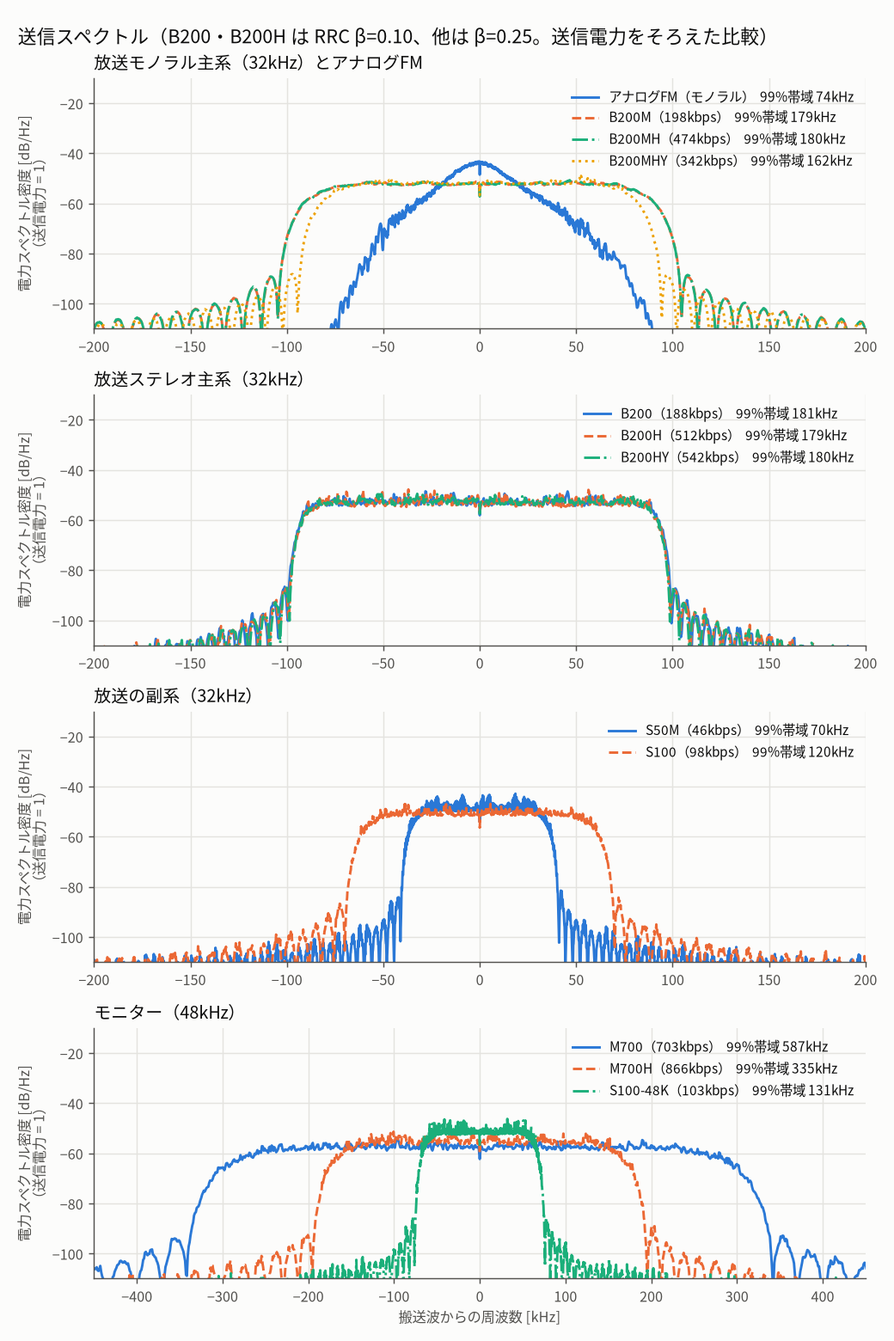
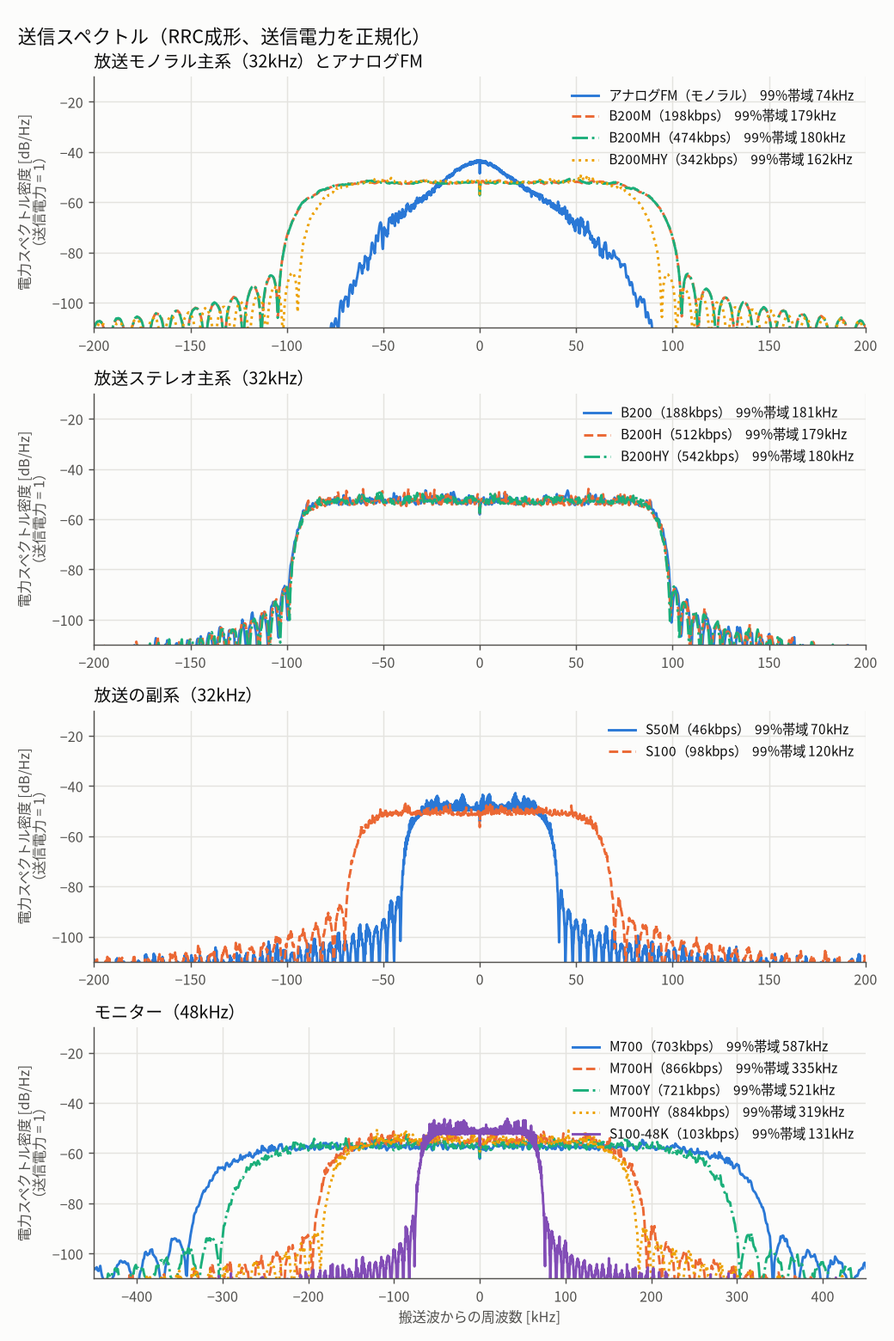
fix.

diff --git a/tools/profile_matrix.py b/tools/profile_matrix.py
@@ -19,13 +19,13 @@ def vector(values):
 
 def render():
     lines = ['# 現行プロファイル設定マトリクス', '',
-             '`gracefm/profiles.py` の `PROFILE_MATRIX` から生成。更新は `python tools/profile_matrix.py`、一致確認は `--check`。', '',
+             '`gracefm/profiles.py` の `PROFILE_MATRIX` から生成。更新は `python tools/profile_matrix.py`、一致確認は `--check`。アルゴリズムと測定条件は[技術論文](SPEC.md)を参照。', '',
              '全登録プロファイルに区間アッテネータを標準装備する。名前の数字は系列名であり、現在の実ビットレートは下表を参照。', '',
              '共通設定：64サンプル、Haar 6段、指数4bit/送信帯域、基本CRC-16とH1/H2用の高域CRC-16（該当帯域を送る場合のみ）、畳み込み符号 K=7・r=1/2。ヘッダは非暗号化24bit（カウンタ16bit）、暗号化32bit（カウンタ24bit）。ID 0・14・15は予約。', '',
              '## ID・方式・伝送予算', '',
              '非暗号化の値。シンボル数にはプリアンブル16シンボルとY専用シンボルを含む。理論支持幅は `(1+β)Rs` で、99%占有帯域の実測値ではない。音声量には指数とアッテネータを含む。', '',
              '| ID | 名前 | fs kHz | M/S | 変調 / α | Y開始k | FEC上位bit/係数 | 音声 kbps | CRC本数 | 保護部CRC込 bit | FEC後 bit | 非保護デジタル bit | シンボル/フレーム | Rs ksym/s | RRC β / span | 理論支持幅 kHz |',
-             '|---|---|---:|---|---|---|---:|---:|---:|---:|---:|---:|---:|---|---:|']
+             '|---|---|---:|---|---|---|---:|---:|---:|---:|---:|---:|---:|---:|---|---:|']
     budgets=[]
     for p in PROFILES.values():
         tx=Transmitter(p); l=tx.layout; ns=tx.nsym+16; rs=tx.symbol_rate()

diff --git a/tools/spectrum.py b/tools/spectrum.py
@@ -40,8 +40,8 @@ for f in font_manager.findSystemFonts():
     if "NotoSansCJK" in f:
         font_manager.fontManager.addfont(f)
 plt.rcParams["font.family"] = ["Noto Sans CJK JP", "DejaVu Sans"]
-COL = ["#2a78d6", "#eb6834", "#1baf7a", "#eda100"]       # 分類色 (固定順)
-LS = ["-", "--", "-.", ":"]
+COL = ["#2a78d6", "#eb6834", "#1baf7a", "#eda100", "#824db6", "#b05e70"]
+LS = ["-", "--", "-.", ":", "-", "--"]
 INK, INK2, GRID, SURF = "#0b0b0b", "#52514e", "#e4e3df", "#fcfcfb"
 SPS = 8
 
@@ -84,7 +84,7 @@ def main():
         ("放送モノラル主系（32kHz）とアナログFM", ["FM", "B200M", "B200MH", "B200MHY"]),
         ("放送ステレオ主系（32kHz）", ["B200", "B200H", "B200HY"]),
         ("放送の副系（32kHz）", ["S50M", "S100"]),
-        ("モニター（48kHz）", ["M700", "M700H", "S100-48K"]),
+        ("モニター（48kHz）", ["M700", "M700H", "M700Y", "M700HY", "S100-48K"]),
     ]
     res = {}
     fig, axs = plt.subplots(len(groups), 1, figsize=(8, 12), facecolor=SURF)
@@ -117,7 +117,7 @@ def main():
         ax.set_ylabel("電力スペクトル密度 [dB/Hz]\n（送信電力 = 1）", fontsize=9, color=INK2)
         ax.legend(fontsize=8.5, frameon=False, loc="upper right", labelcolor=INK)
     axs[-1].set_xlabel("搬送波からの周波数 [kHz]", fontsize=9, color=INK2)
-    fig.suptitle("送信スペクトル（B200・B200H は RRC β=0.10、他は β=0.25。送信電力をそろえた比較）", fontsize=12, color=INK, x=0.02,
+    fig.suptitle("送信スペクトル（RRC成形、送信電力を正規化）", fontsize=12, color=INK, x=0.02,
                  ha="left")
     fig.tight_layout()
     fig.savefig(os.path.join(ROOT, "docs", "figures", "rf_spectrum.png"), dpi=130, facecolor=SURF)

diff --git a/docs/SPEC.md b/docs/SPEC.md
@@ -1,53 +1,114 @@
-# GraceFM 現行仕様
+# GraceFM：Haar帯域分割を用いた低遅延デジタル音声伝送
 
-## プロファイルの定義
+## 要旨
 
-唯一の設定元は `gracefm/profiles.py` の `PROFILE_MATRIX`。全13行が同じ項目を持ち、ビット割当を派生関数で暗黙に増やさない。[全設定・伝送予算マトリクス](PROFILES.md)は、この定義から自動生成する。
+GraceFMは、64サンプルの音声を正規直交Haar変換し、帯域別に量子化して無線シンボルへ写像する方式である。重要な指数、区間アッテネータおよび仮数上位bitを畳み込み符号で保護し、Haarの高域H2/H1に別のCRCを割り当てる。QPSK、強弱のある階層16QAM、高域M係数を1係数1複素シンボルで送るY方式を定義する。受信側は軟判定復号、量子化区間に制約されたポストフィルタ、任意の2周波数系統の帯域別融合、LPCによる連続欠落の補間を行う。本書は[参照実装](../gracefm/)のアルゴリズムと[計算した設定表](PROFILES.md)を記述する。数値はオフラインシミュレーションであり、実機のRF性能、同期取得、法規適合性を示すものではない。
 
-全プロファイルは64サンプル、Haar 6詳細帯域＋低域近似1群。32kHzは1フレーム2ms、48kHzは約1.333ms。M=(L+R)/2、S=(L−R)/2。モノラルはSを送らない。
+## 1. 信号モデルと帯域
 
-副系は主系と別周波数で送る独立した音声ストリームで、M/SのS成分や拡張層とは異なる。既定の組合せは32kHzモノラル主系にS50M、32kHzステレオ主系にS100、48kHz主系にS100-48K。副系の使用は任意で、主系だけでも復号できる。
+入力はサンプリング周波数 $f_s=32$ または $48$ kHzの左右PCMとし、$M=(L+R)/2$、$S=(L-R)/2$ に変換する。モノラルのプロファイルはMのみを送る。1フレームは64サンプルで、フレーム周期は $T_f=64/f_s$、すなわち32 kHzで2 ms、48 kHzで約1.333 msである。音声ブロック内に先読みはない。[codec.py](../gracefm/codec.py)が変換と量子化を実装する。
 
-## 標準の区間アッテネータ
+Haar分解は偶数・奇数の組ごとに $a'=(x_{2i}+x_{2i+1})/\sqrt2$、$d=(x_{2i}-x_{2i+1})/\sqrt2$ を6段繰り返す。$k=0$ は最終近似、$k=1,\ldots,6$ は低域から高域への詳細帯域で、各ブロックの係数数は順に $1,1,2,4,8,16,32$ である。32 kHzではH2（$k=5$）が概ね4–8 kHz、H1（$k=6$）が8–16 kHzに対応する。48 kHzではそれぞれ6–12 kHz、12–24 kHzに対応する。Haarの帯域は理想的な矩形周波数帯域ではない。
 
-全登録プロファイルの送信するM/S成分に区間アッテネータを持つ。副系は省略した高域ではなく、各成分の最高送信帯域に配置する。通常は4係数ごとに1bit、係数数が4未満ならその係数数を一区間とする。B200HのM最高域だけは既存の調整値8係数を維持する。Y系の高域Mは各帯域8区間とする。全区間長はマトリクスに明記する。
+## 2. 帯域別の量子化と音声データ量
 
-区間bitが1なら量子化ステップを2^eから2^(e−1)へ半減する。指数と区間bitはFECで保護する。RF出力を下げる機能ではない。
+各成分・帯域の仮数幅 $b_{c,k}$ と共有指数幅はプロファイルで固定する。係数 $x_{c,k,j}$ の量子化値は
 
-アッテネータ有無だけの登録プロファイルは廃止した。試験内で無効化する比較条件はカタログ外であり、量産用の別IDを与えない。
+$$m_{c,k,j}=\operatorname{clip}\!\left(\operatorname{round}\frac{x_{c,k,j}}{2^{e_{c,k}-a_{c,k,j}}},q_{\min},q_{\max}\right),\qquad q_{\max}=2^{b_{c,k}-1}-1.$$
 
-## 基本層と拡張層
+$a_{c,k,j}\in\{0,1\}$ は区間アッテネータで、1なら量子化刻みを半分にする。全登録プロファイルの送信成分に少なくとも一つの区間を持たせる。指数は帯域内で共有し、整数の指数インデックス $e-e_{\min}$ を送る。送信機はピークから決めた指数と、その1段下の候補について、区間ごとにアッテネータ0/1を選び、二乗誤差が小さい組を採用する。アッテネータはRF出力電力を下げる機能ではない。通常の仮数範囲は $[-q_{\max},q_{\max}]$、Y高域だけは負端に1値多い範囲を使う。
 
-階層16QAMの強い位置は1シンボル当たり2bit。FEC符号化済み保護部と基本層の非FEC部分を置く。残りの仮数は拡張層として弱い位置へ置く。基本層の幅にはFEC保護する上位bitを含むが、基本層全体をFEC保護するわけではない。
+1フレームの音声データ量は、送る各成分・帯域について
 
-`base_m` / `base_s` は帯域内共通の幅。`base_extra` は強い位置の残りを使う係数別の次位bit昇格 `(成分, 帯域, 係数)` を明記する。`base_bits(ch,k,j)` が実効割当で、送信・受信の両方が同じ値を使う。現行階層プロファイルは強い位置を使い切り、拡張層の暗黙の流入はない。
+$$P=\sum_{c,k:b_{c,k}>0}\left[E_{c,k}+A_{c,k}+n_k b_{c,k}\right],\qquad R_{\rm audio}=P\frac{f_s}{64},$$
 
-Y高域Mは通常のデジタル基本層・拡張層の対象外。H2/H1の計48係数を1係数につき1複素シンボルで送る。標準8bitの上位2bitを位相、残り6bitを半径で表す。指数、区間アッテネータ、仮数上位bitはデジタル部でもFEC・CRCで保護する。M700Yの保護上位幅は2bit、他のY系は1bit。32 kHzではMの4〜16 kHz、48 kHzでは6〜24 kHzをY専用シンボルに割り当てる。Sは通常デジタル部で送る。32 kHzのB200HYはS基本層が全帯域1bitで、高域Sの次位bitは弱い位置。48 kHzのM700HYはS基本層が `(1,1,1,1,1,2,2)` で、最低域Sの係数0を1bit昇格する。
+である。$E$ は指数bit数、$A$ は区間アッテネータbit数、$n_k$ は係数数。$R_{\rm audio}$ は量子化表現の名目ビットレートで、ヘッダ、CRC、FEC、プリアンブル、詰め物を含まない。Y方式の高域仮数も8bit表現として数えるが、その非保護部分はデジタルbit列ではなく専用シンボルの半径へ写像する。帯域別の全幅、指数、区間長は[設定マトリクス](PROFILES.md)に記載する。
 
-32 kHzステレオの帯域調整では、QPSKのB200はSのH2 (`k=5`) を省略し、H1 (`k=6`) を残す。B200H/B200HYはSのH2/H1を各6bitで送る。B200Hは高域Sの次位bitも強い位置へ置くが、B200HYは専用の高域Mシンボル48個を維持するため、Sの次位bitを弱い位置へ置く。高域M専用シンボル内の位相・半径bit割当は変えない。
+## 3. フレームフォーマットと誤り訂正
 
-## IDとヘッダ
+1音声ブロックが1無線フレームに対応する。非暗号化フレームの保護部先頭は24bitのヘッダで、`プロファイルID 4 | 系統ID 1 | 暗号化フラグ 1 | 形式識別子 2 | フレーム番号 16` の順。形式識別子は固定ビット値 `11` であり、製品の世代番号ではない。暗号化時はフレーム番号が24bitとなり、ヘッダは32bitになる。ID 0、14、15は予約である。
 
-IDは1〜13で一意。0・14・15は予約。1〜6は32kHz主系（QPSK、階層QAM、階層Yの順に各モノラル／ステレオ）、7〜8は32kHz副系、9〜12は48kHz主系、13は48kHz副系。
+```text
+量子化結果: 指数 | 区間アッテネータ | 各係数の仮数
+保護部:     ヘッダ | 指数 | 区間アッテネータ | 仮数上位K bit | 基本CRC 16 | 高域CRC 16※
+                  └──────────── 共通の畳み込みFEC ────────────┘
+デジタル部: FEC出力 | 非保護仮数（階層方式では基本層→拡張層） | 詰め物
+送信順:     プリアンブル16シンボル | デジタルQPSK/階層QAM | Y高域Mの専用シンボル※
+※ 該当帯域・方式にだけ存在する。
+```
 
-ヘッダ順は `ID 4bit | 系統ID 1bit | 暗号化 1bit | 形式識別子 2bit | フレーム番号`。形式識別子の固定ビット値は `11`（実装フィールド名 `experimental_tag`）。非暗号化は番号16bit、全24bit。暗号化は番号24bit、全32bit。
+ヘッダの後ろへ、M→S、低域→高域の順に指数、区間アッテネータ、各係数の仮数上位 $K$ bitを並べる。$K$ はプロファイルごとに1または2である。指数とアッテネータを含む $k=0\ldots4$ の保護bitおよびヘッダを**基本CRC**、$k=5,6$ の保護bitを**高域CRC**で検査する。各CRCは16bit CCITT、多項式 `0x1021`、初期値 `0xFFFF`。高域の保護bitがないプロファイルには高域CRCを付けない。両CRCは検査範囲を分けるが、その後のFECは共通の1本である。非保護仮数はCRCの対象外。[framing.py](../gracefm/framing.py)がビット順と検査範囲を定義する。
 
-形式識別子が一致しないフレームは、IDが同じでも拒否する。CRC分離と帯域別のビット割当を伝送予算に計上する。
+保護部とCRC列を、拘束長7、符号化率1/2、生成多項式 $(133,171)_8$ の畳み込み符号に通す。各フレーム末尾にゼロ6bitを入れて終端し、受信側は軟判定ビタビで復号する。保護部のCRC込み長を $N_p$ とすると符号化後は $N_c=2(N_p+6)$ bitである。残りの仮数bitはFECなしで、重要順位、成分M→S、帯域低→高、係数順に送る。階層方式では基本層を先、拡張層を後に並べ、係数別の次位bit昇格もこの順序に反映する。FEC保護上位bitは基本層に含むが、**基本層のすべてがFEC保護されるわけではない**。[fec.py](../gracefm/fec.py)に符号器・復号器を実装する。
 
-## フレームと受信
+送信シンボル列は `16シンボル既知プリアンブル | デジタルシンボル | Y専用シンボル（Y系のみ）` の順。デジタル部は余った位置を0で埋め、PRBS `1+x^14+x^15` で詰め物も含めてスクランブルする。Y部は別の3bit/係数のマスクを使う。暗号化を選ぶ場合、ヘッダ以外の保護部と非保護部をAES-128-CTRのキーストリームとXORし、暗号文にCRCとFECを適用する。Y系の暗号化は参照実装にない。鍵共有と認証も対象外である。
 
-保護部の並びはヘッダ、指数（M→S・帯域順）、区間アッテネータ（M→S・帯域→区間順）、各係数の上位K bit。Haarの `k=6` をH1、`k=5` をH2と呼ぶ。ヘッダと `k=0…4` の保護bitに基本CRC-16-CCITT、`k=5,6` の保護bitに高域CRC-16-CCITTをそれぞれ計算し、末尾に基本CRC、高域CRCの順で付ける。H1/H2を送らないプロファイルには高域CRCを付けない。保護部全体は従来どおり畳み込み符号K=7・r=1/2で符号化するため、ビタビ復号の誤りが基本部に波及した場合は基本CRCでフレームを落とす。非保護仮数はどちらのCRCにも含めない。暗号化時は暗号文に対してCRCを計算する。
+### 3.1 ビットからシンボルへの予算
 
-デジタル部は保護部の符号化列、基本層の非FEC仮数、拡張層の順。各層は上位順位、M→S、帯域、係数の順。PRBSスクランブル後に変調する。Yの高域M専用シンボルはデジタル部の後ろに続く。プリアンブルは16シンボル。`Transmitter.nsym` はプリアンブルを除く値で、`Transmitter.frame()` の返す配列と設定表のシンボル数・シンボルレートはプリアンブルを含む。
+デジタル部のbit数を $N_{\rm tx}=N_c+N_u$、強い位置に置くbit数を $N_s=N_c+N_{\rm base,unprotected}$ とする。QPSKでは $N_s=N_c$。1シンボルの位置数を $m=2$（QPSK）または4（階層16QAM）として、必要なデジタルシンボル数は
 
-受信は軟判定復号、CRC判定、係数復元、任意のMポストフィルタ、逆Haar変換。基本CRC不一致ならフレーム欠落。高域CRCだけが不一致ならH1/H2のM/S係数をゼロとし、低中域は有効のまま採用する。帯域融合では消去したH1/H2の分散を無限大として扱う。副系は半ブロックずらし、帯域ごとの信頼度で融合する。両系統が欠落した区間はLPC外挿する。既定では10ms保持した後、20msかけてゼロへ減衰し、受信復帰時に16サンプルでクロスフェードする。ポストフィルタの標準反復は4回、Sには適用しない。
+$$N_d=\max\left(\left\lceil\frac{N_{\rm tx}}m\right\rceil,\left\lceil\frac{N_s}{2}\right\rceil\right),\qquad N_f=16+N_d+N_Y,\qquad R_s=N_f\frac{f_s}{64}.$$
 
-従来デジタル系の任意暗号化はAES-128-CTR。Y系の暗号化は未対応でエラーにする。鍵共有・認証は本実装の完成機能ではない。
+$N_Y$ は高域Mの専用シンボル数で、通常方式は0、登録Y系は48である。第2項はFEC列と階層基本層が強い象限位置からはみ出さないための制約であり、残る位置は詰め物となる。[modem.py](../gracefm/modem.py)と[txrx.py](../gracefm/txrx.py)がこの計算を使う。
 
-## 遅延と評価の範囲
+デジタル変調位置の総速度は $R_{\rm slots}=mN_df_s/64$ bit位置/sで、FEC後のbitと詰め物を含み、プリアンブルとY専用シンボルは含まない。これは正味の音声ビットレートではない。Y専用シンボルは半径の連続推定を使うため、全方式に共通の「無線総bit/s」へ換算せず、上式の位置速度と $R_s$ を併記する。
 
-処理時間・フィルタ遅延を0とした基準は2フレーム、32kHzで4ms、48kHzで約2.667ms。新しいシンボルレートによるRRC・等化器遅延は `gracefm/timing.py` で計算する。ADC/DAC、処理時間、同期取得は別途必要。
+例えばB200Hでは $P=1024$ bit/フレーム、$R_{\rm audio}=512$ kb/s。ヘッダを含む保護bit220、CRC32、FEC後516、非保護828、うち強い位置に必要なbitは合計676となる。デジタル338シンボルにプリアンブル16を加えて354シンボル/フレーム、$R_s=177$ ksym/sである。デジタル位置は676 kb/s相当で、実際に割り当てるFEC後・非保護bitは672 kb/s、差の4 kb/sは詰め物である。B200HYでは音声表現1084 bit/フレーム、FEC後540、非保護デジタル540、デジタル289、Y専用48、プリアンブル16の計353シンボル/フレームである。
 
-本実装はオフライン参照モデル。理想同期、AWGNや静的反射波の評価を、実RF・実時間の実証と解釈しない。
+## 4. 変調方式
 
-32 kHz主系の送信RRC波形を4秒の素材で測ると、99%占有帯域はB200M 179.2、B200 180.8、B200MH 179.6、B200H 179.4、B200HY 179.6 kHz（B200MHYは161.6 kHz）。計算上の支持幅 `(1+β)Rs` は99%占有帯域とは異なる。測定条件の詳細と4秒素材による再測定値は[スペクトル評価](results/spectrum.json)、シンボル予算は[マトリクス](PROFILES.md)を参照。実RFの占有帯域保証ではない。
+**QPSK**は各複素シンボルのI/Qに1bitずつ、0を正、1を負として置き、平均シンボルエネルギーを1に正規化する。**階層16QAM**は各軸の符号bitを強い位置、半径側のGray符号bitを弱い位置に置く。登録プロファイルの階層パラメータは $\alpha=5$ で、各軸の絶対値は正規化前に $\alpha$ と $\alpha+2$。強い2位置を全シンボルに先に埋め、次に弱い2位置を埋める。通常16QAM（$\alpha=1$）は登録していない。変調器には64QAMの汎用実装もあるが、登録プロファイルはない。
+
+**Y方式**ではH2/H1のM仮数を1係数につき1複素シンボルへ写像する。8bit仮数 $u$ の上位2bitを $H$、下位6bitを $L$ とし、$\theta=\pi/4+H\pi/2$、$r=[1+\delta(L-31.5)]/C$、$z=re^{i\theta}$ とする。$\delta=0.08\times7.5/31.5$、$C$ は全点の平均エネルギーを1にする係数。上位1bit（M700Yのみ2bit）はデジタル保護部にも複写する。受信側は保護済み位相bitで候補を絞り、受信複素点の投影から半径の連続値と誤差分散を求める。**Yに移すのは高域Mだけ**で、Sはデジタル部に残る。32 kHzのB200HYではSの各帯域の最上位1bitを基本層の強い位置、次位bitを弱い位置に置く。高域M専用の48シンボルは変えない。
+
+## 5. 受信、欠損データ、復元フィルタ
+
+受信機は既知プリアンブルの後のI/Qから雑音共分散をフレームごとに推定し、各信号点の尤度からbit事後確率とLLRを得る。PRBSを戻し、保護部をビタビ復号し、CRCを検査する。基本CRCが不一致ならそのフレームを欠落とする。高域CRCだけが不一致ならH2/H1のM/S係数を0にし、低中域は使う。高域の融合用誤差分散は無限大とし、もう一方の系統に正常な高域があればそちらを選ぶ。非保護bitは事後確率 $p_1$ を使い、仮数の期待値を $E[u]=u_{\rm hard}+\sum(p_1-b_{\rm hard})2^{\rm pos}$、事後分散を $\sum p_1(1-p_1)4^{\rm pos}$ として復元する。CRCで非保護bitの誤りまで検出したと解釈してはならない。
+
+### 5.1 量子化区間に制約されたポストフィルタ
+
+M成分には任意のポストフィルタを適用でき、通常設定は4反復、Sには適用しない。半サンプルの3次補間係数 $[-1,9,9,-1]/16$ とその反転列を畳み込んだ7タップで推定波形を平滑化する。その結果をHaar変換し、各係数を受信した仮数・指数・アッテネータから得られる量子化逆像 $[\ell_i,h_i]$ へ射影してから逆変換する。これを4回繰り返す。式では $c^{(t+1)}=\operatorname{clip}(H A y^{(t)}+H B y_{\rm prev},\ell,h)$、$y^{(t+1)}=H^\top c^{(t+1)}$。$H$ は正規直交Haar行列、$A$ は現ブロックの平滑化、$B$ は前ブロック末尾3サンプルの寄与である。右端は現在の推定値から線形外挿するため、このフィルタ自体に未来ブロックの待ちはない。未送信帯域は0固定の制約にせず、入力振幅から得る可能範囲を許す。[postfilter.py](../gracefm/postfilter.py)に境界処理と射影を実装する。
+
+### 5.2 二系統融合と連続欠落の処理
+
+副系を使う場合は別周波数の独立したストリームとして同じ音声を送り、64サンプルの格子を32サンプルずらす。受信機は半ブロック単位で両系統を時刻合わせし、M/Sの各Haar帯域に推定誤差分散 $R_A,R_B$ の逆数で重みを付ける。$w_A=(1/R_A)/(1/R_A+1/R_B)$。片系統だけ有効ならその系統を使い、未送信またはCRCで消去した帯域は $R=\infty$ とする。副系の電力と帯域は主系と別に計上する。[fusion.py](../gracefm/fusion.py)に融合の実装がある。
+
+両系統で同一区間が欠けた場合は、直前最大1024サンプルから次数32のLPCを推定して外挿する。最初の10 msはゲイン1を保持し、その後20 msで0へ減衰する。復帰時は16サンプルで予測値から受信値へクロスフェードする。[plc.py](../gracefm/plc.py)に係数推定とゲイン包絡を実装する。帯域別AR/Kalman予測器は任意の追加機能で、通常の受信経路では無効である。
+
+### 5.3 RF用フィルタと等化器
+
+送信スペクトルの評価では、シンボルを8倍にアップサンプルし、エネルギー正規化したルートレイズドコサイン（RRC）FIRで成形する。ロールオフ $\beta$ と長さはプロファイルで固定し、放送ステレオ主系B200/B200H/B200HYは $\beta=0.10$、長さ32シンボル、その他の登録プロファイルは $\beta=0.25$、長さ16シンボルである。実装は[pulse.py](../gracefm/pulse.py)。静的マルチパスの評価では送受信RRCの整合フィルタ後にシンボル間隔の等価通信路を作り、既知のヘッダから通信路を推定して線形MMSE FIR等化器を設計する。これは[equalizer.py](../gracefm/equalizer.py)の評価モデルであり、実機の同期・等化完了を示すものではない。
+
+## 6. ビットレートと送信帯域
+
+表の音声量は第2節の $R_{\rm audio}$、シンボルレートはプリアンブルとY専用シンボルを含む $R_s$ である。理論支持幅は無限長RRCの式 $B_{\rm RRC}=(1+\beta)R_s$ による両側帯域幅である。99%占有帯域は4秒の `fishin` 音源を連続フレーム化し、8倍サンプルのRRC波形についてWelch法で推定した電力スペクトルの0.5%～99.5%点間を測った値。[測定スクリプト](../tools/spectrum.py)と[数値JSON](results/spectrum.json)を参照。
+
+| 系列 | プロファイル | 変調 | 音声量 kb/s | シンボル/フレーム | $R_s$ ksym/s | $\beta$ | 理論支持幅 kHz | 99%占有帯域 kHz |
+|---|---|---|---:|---:|---:|---:|---:|---:|
+| 放送モノラル | B200M | QPSK | 198 | 326 | 163 | 0.25 | 203.75 | 179.2 |
+| 放送ステレオ | B200 | QPSK | 188 | 356 | 178 | 0.10 | 195.80 | 180.8 |
+| 放送モノラル | B200MH | 階層16QAM | 474 | 326 | 163 | 0.25 | 203.75 | 179.6 |
+| 放送ステレオ | B200H | 階層16QAM | 512 | 354 | 177 | 0.10 | 194.70 | 179.4 |
+| 放送モノラル | B200MHY | 階層16QAM＋Y | 342 | 294 | 147 | 0.25 | 183.75 | 161.6 |
+| 放送ステレオ | B200HY | 階層16QAM＋Y | 542 | 353 | 176.5 | 0.10 | 194.15 | 179.6 |
+| 32 kHz副系 | S50M | QPSK | 46.5 | 128 | 64 | 0.25 | 80.00 | 70.5 |
+| 32 kHz副系 | S100 | QPSK | 97.5 | 218 | 109 | 0.25 | 136.25 | 120.3 |
+| 48 kHz主系 | M700 | QPSK | 702.75 | 711 | 533.25 | 0.25 | 666.56 | 587.4 |
+| 48 kHz主系 | M700H | 階層16QAM | 866.25 | 406 | 304.5 | 0.25 | 380.63 | 335.4 |
+| 48 kHz主系 | M700Y | QPSK＋Y | 720.75 | 631 | 473.25 | 0.25 | 591.56 | 521.3 |
+| 48 kHz主系 | M700HY | 階層16QAM＋Y | 884.25 | 386 | 289.5 | 0.25 | 361.88 | 319.5 |
+| 48 kHz副系 | S100-48K | QPSK | 102.75 | 158 | 118.5 | 0.25 | 148.13 | 131.0 |
+
+![各プロファイルの送信スペクトル](figures/rf_spectrum.png)
+
+*図1：同じ素材で生成した連続フレームの複素ベースバンドPSD。各波形の平均送信電力を1に正規化した。*
+
+99%占有帯域と理論支持幅は異なる。測定した放送主系が約180 kHzでも、−30 dB幅はB200M/B200MHで203.8 kHz、B200/B200H/B200HYで約194～196 kHzである。単一主系の値を主系＋副系2周波数の合計帯域と混同してはならない。占有帯域の測定だけで180 kHzチャンネルへの適合や隣接チャネル漏洩は保証できない。
+
+## 7. 遅延、評価範囲、再現方法
+
+理想的に処理時間・フィルタ遅延を0とした場合、1フレームを蓄積してから1フレーム時間で送るので、最小の一定再生遅延は $2T_f$、32 kHzで4 ms、48 kHzで約2.667 msとなる。半ブロック単位の二系統融合でもこの基準は同じ。実際にはRRC、等化器の先読み、符号化・復号、ADC/DAC、同期取得、出力バッファを加える。[timing.py](../gracefm/timing.py)はこれらを別々に与える計算モデルであり、実機遅延の実測ではない。
+
+設定の正本は[profiles.py](../gracefm/profiles.py)の `PROFILE_MATRIX` で、[設定マトリクス](PROFILES.md)は `python tools/profile_matrix.py` で生成する。表の一貫性は `python tools/profile_matrix.py --check`、スペクトルは `python tools/spectrum.py`、試聴音声のファイルと設定の対応は `python tools/sample_catalog.py` で検証できる。受信・CRC・帯域配置の動作は `tests/test_profiles.py`、`tests/test_gracefm.py`、`tests/test_hybrid.py` を参照。FM・aptX・DAB+との比較条件と数値は[方式間比較](COMPARISON.md)に分けて記載する。
+
+参照実装の主な通信路評価は理想同期のAWGNまたは指定した静的反射波である。周波数偏差、位相雑音、移動時の同期追従、ASICの面積・消費電力、量産コストは本書の測定対象外である。

diff --git a/docs/PROFILES.md b/docs/PROFILES.md
@@ -1,6 +1,6 @@
 # 現行プロファイル設定マトリクス
 
-`gracefm/profiles.py` の `PROFILE_MATRIX` から生成。更新は `python tools/profile_matrix.py`、一致確認は `--check`。
+`gracefm/profiles.py` の `PROFILE_MATRIX` から生成。更新は `python tools/profile_matrix.py`、一致確認は `--check`。アルゴリズムと測定条件は[技術論文](SPEC.md)を参照。
 
 全登録プロファイルに区間アッテネータを標準装備する。名前の数字は系列名であり、現在の実ビットレートは下表を参照。
 
@@ -11,7 +11,7 @@
 非暗号化の値。シンボル数にはプリアンブル16シンボルとY専用シンボルを含む。理論支持幅は `(1+β)Rs` で、99%占有帯域の実測値ではない。音声量には指数とアッテネータを含む。
 
 | ID | 名前 | fs kHz | M/S | 変調 / α | Y開始k | FEC上位bit/係数 | 音声 kbps | CRC本数 | 保護部CRC込 bit | FEC後 bit | 非保護デジタル bit | シンボル/フレーム | Rs ksym/s | RRC β / span | 理論支持幅 kHz |
-|---|---|---:|---|---|---|---:|---:|---:|---:|---:|---:|---:|---|---:|
+|---|---|---:|---|---|---|---:|---:|---:|---:|---:|---:|---:|---:|---|---:|
 | 1 | B200M | 32 | M | qpsk / 1 | — | 1 | 198 | 2 | 156 | 324 | 296 | 326 | 163 | 0.25 / 16 | 203.75 |
 | 2 | B200 | 32 | M/S | qpsk / 1 | — | 1 | 188 | 2 | 236 | 484 | 196 | 356 | 178 | 0.1 / 32 | 195.8 |
 | 3 | B200MH | 32 | M | qam16h / 5 | — | 1 | 474 | 2 | 156 | 324 | 848 | 326 | 163 | 0.25 / 16 | 203.75 |

diff --git a/docs/COMPARISON.md b/docs/COMPARISON.md
@@ -1,6 +1,6 @@
 # GraceFM と FM・aptX・DAB+ の比較（現行設定）
 
-比較の基準は GraceFM の現行設定。32 kHz の放送用主系は 99% 占有帯域を約180 kHz に調整した。以下の数値はシミュレーションとコーデック評価であり、実機・実電波の測定値ではない。
+比較の基準は GraceFM の現行設定。方式のアルゴリズム、フレーム予算、ビットレートと占有帯域は[技術論文](SPEC.md)にまとめた。32 kHz の放送用主系は 99% 占有帯域を約180 kHz に調整した。以下の数値はシミュレーションとコーデック評価であり、実機・実電波の測定値ではない。
 
 ## アナログ FM：通信路を含む比較
 

diff --git a/README.md b/README.md
@@ -31,7 +31,7 @@
 
 ## 仕様と検証状況
 
-[現行仕様](docs/SPEC.md)にフレーム形式と層配置を記載。ID 0・14・15は予約。
+[技術論文](docs/SPEC.md)にHaar量子化、変調、FEC、欠損処理、フィルタ、フレーム形式、ビットレートと占有帯域をまとめた。ID 0・14・15は予約。
 
 64サンプル／フレーム。処理時間・フィルタ遅延0の伝送時刻モデルは32kHzで4ms、48kHzで約2.667ms。送受信RRC・等化器・実処理・ADC/DAC・同期取得の遅延は別途必要。実装はオフラインの配列処理であり、実機の遅延保証ではない。
 
